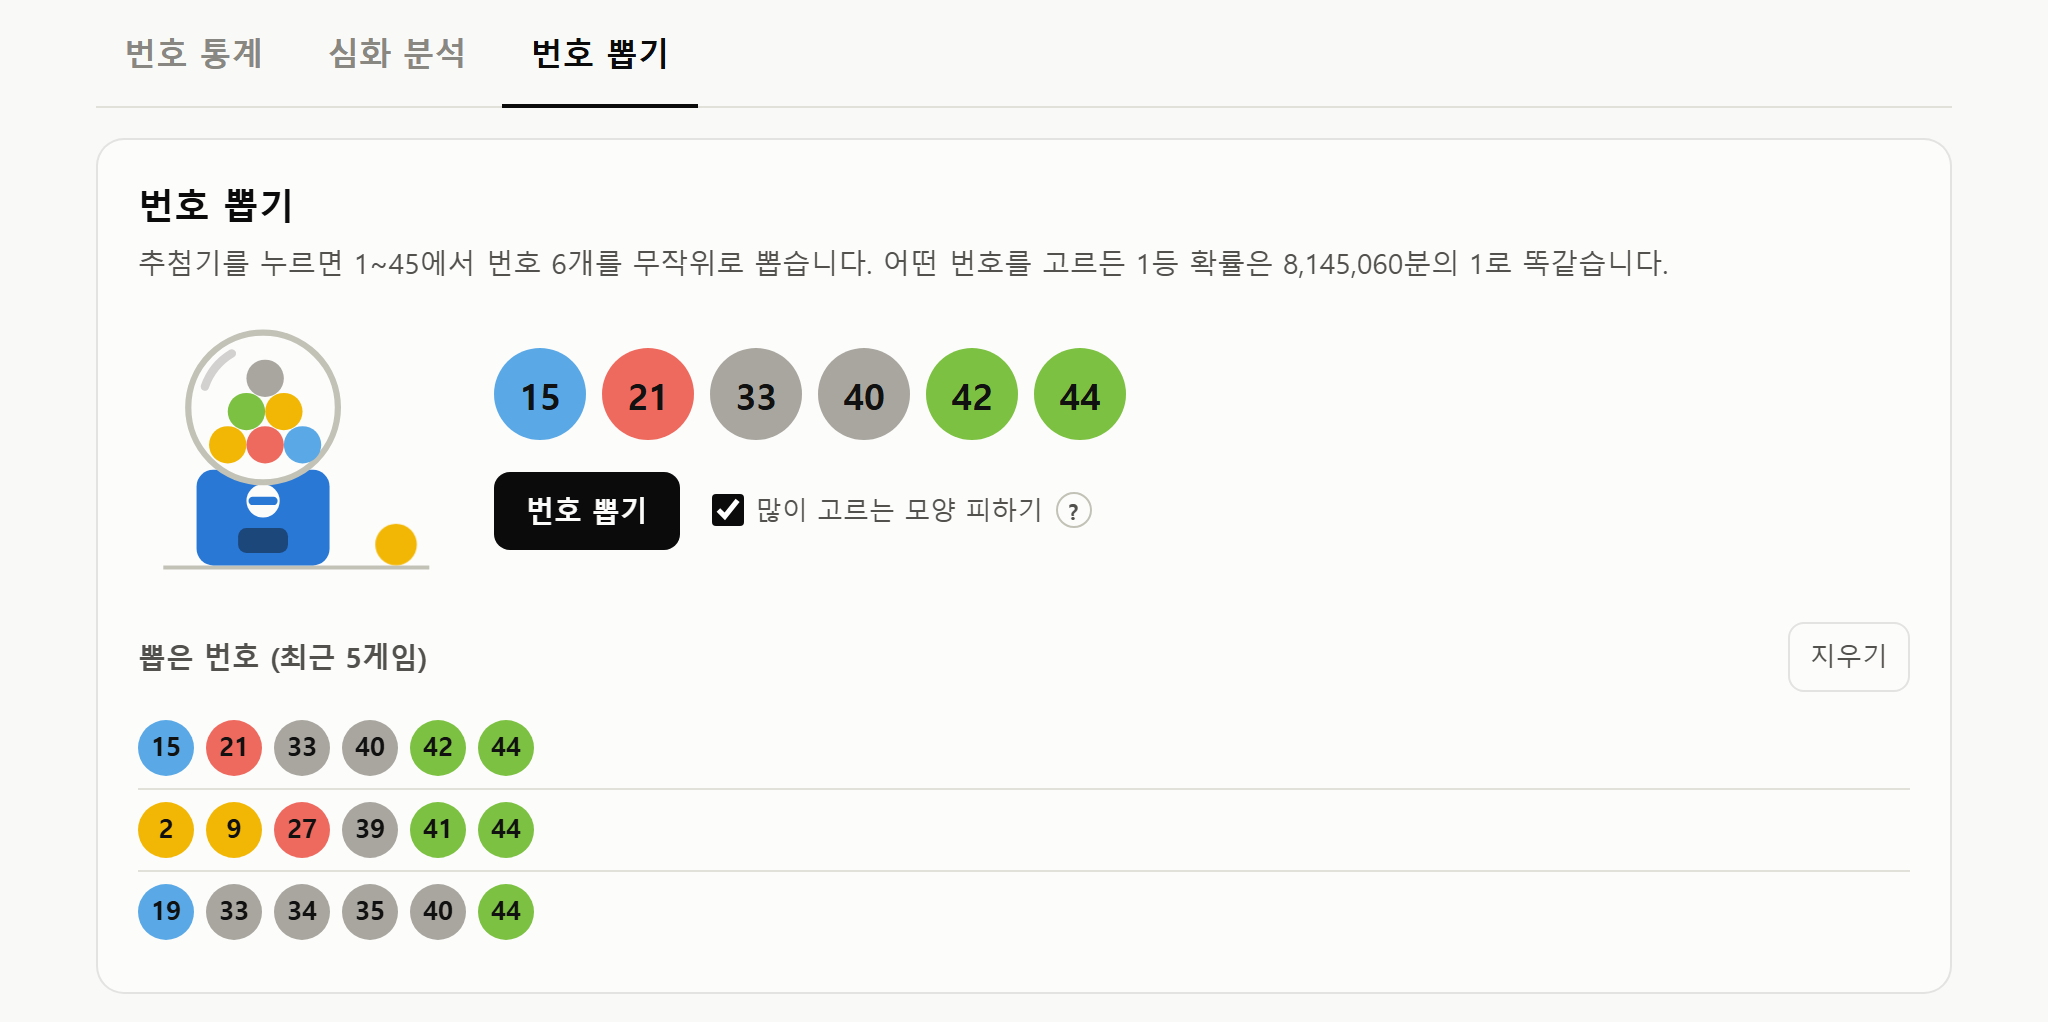
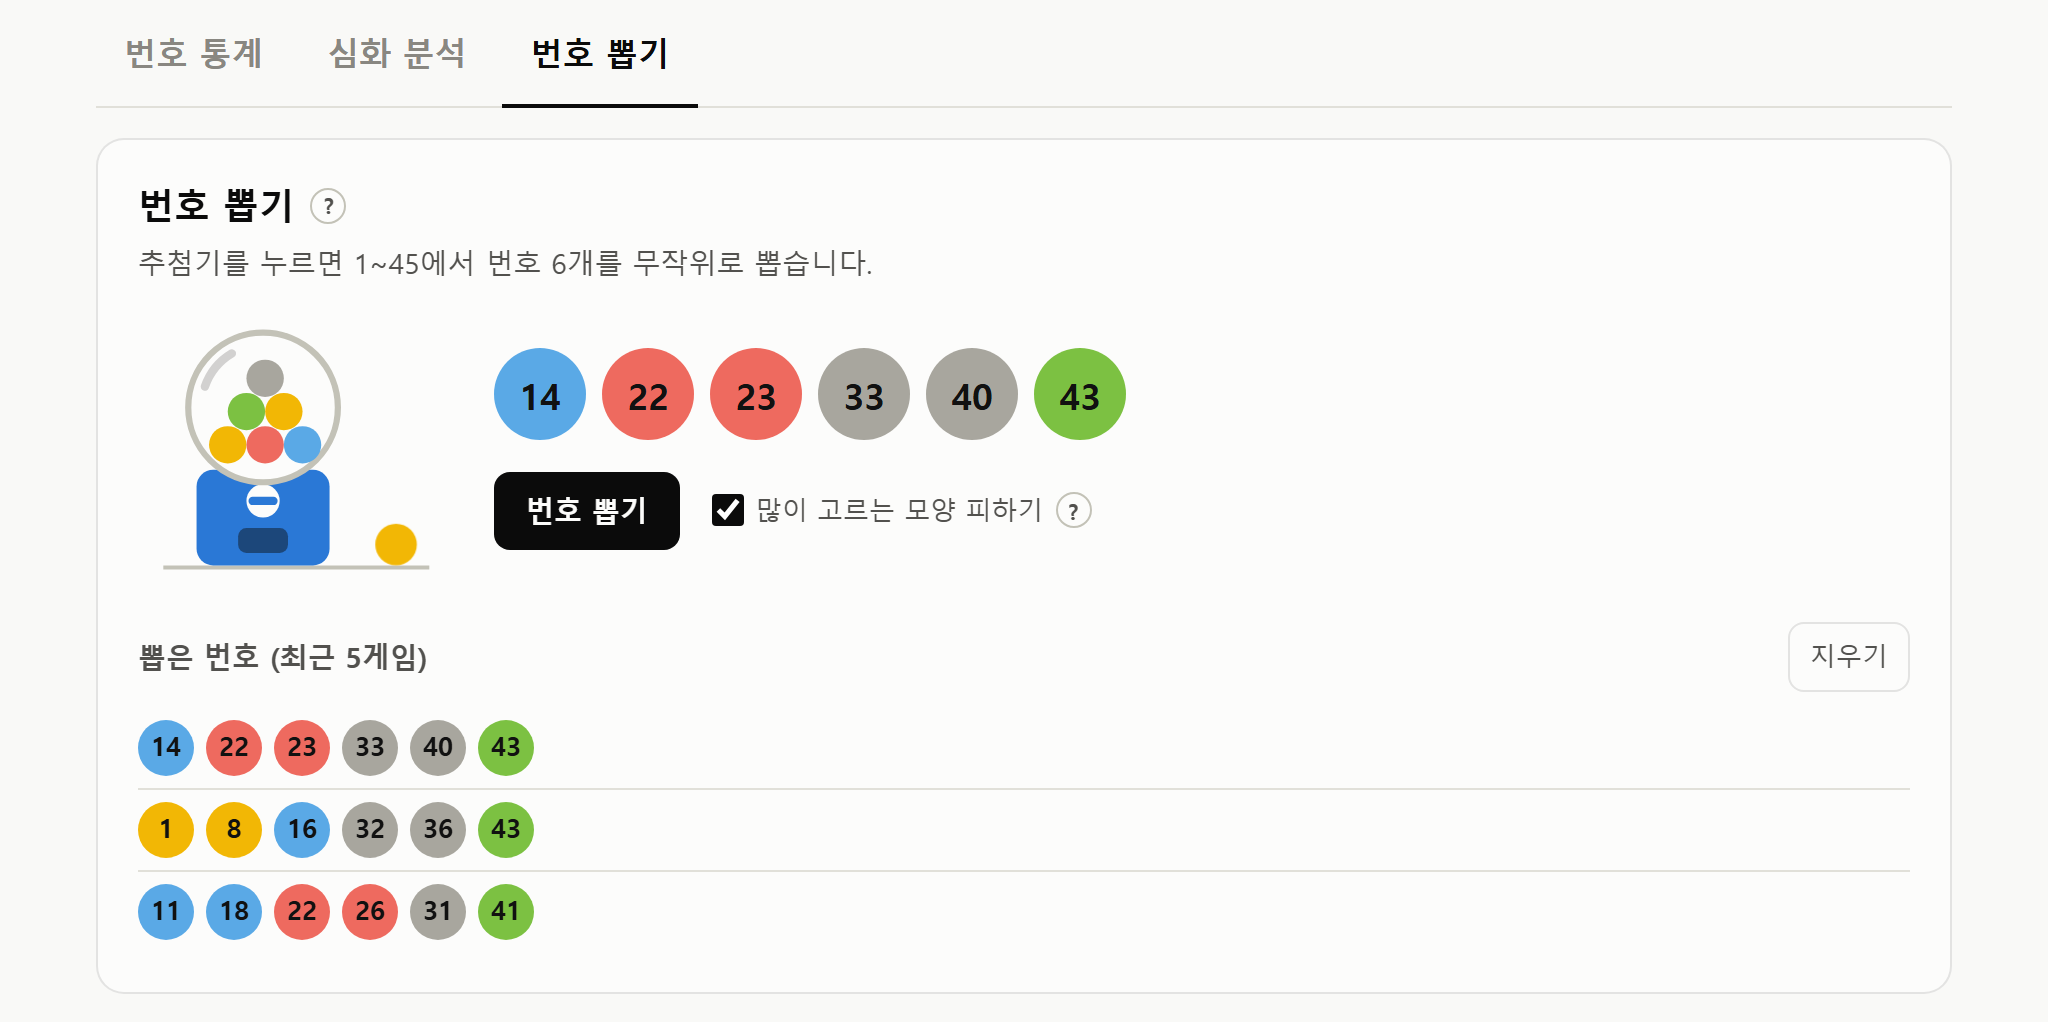
번호 뽑기의 1등 확률 안내를 제목 옆 ? 도움말로 이동
부제목에는 '추첨기를 누르면 1~45에서 번호 6개를 무작위로 뽑습니다.'만 남기고,
'1등 확률은 8,145,060분의 1로 똑같다'는 내용과 그 이유(조합 수, 분석 결과, 난수)를 ? 에 담았다.

diff --git a/docs/index.html b/docs/index.html
@@ -362,6 +362,7 @@
   .pick-history li { display: flex; flex-wrap: wrap; align-items: center; gap: 6px; padding: 6px 0; border-bottom: 1px solid var(--grid); }
   .pick-history li:last-child { border-bottom: 0; }
   .records + .sub { margin-top: 12px; }
+  .title-help { display: flex; align-items: center; gap: 8px; }
   .sr-only { position: absolute; width: 1px; height: 1px; padding: 0; margin: -1px; overflow: hidden; clip: rect(0 0 0 0); white-space: nowrap; border: 0; }
   @media (prefers-reduced-motion: reduce) { .ball.pop { animation: none; } }
 
@@ -600,8 +601,8 @@
   <!-- 탭 3: 번호 뽑기 (가챠 추첨기로 무작위 번호 6개) -->
   <div class="panel" id="panel-pick" role="tabpanel" aria-labelledby="tab-pick" hidden>
   <section class="card">
-    <h2>번호 뽑기</h2>
-    <p class="sub">추첨기를 누르면 1~45에서 번호 6개를 무작위로 뽑습니다. 어떤 번호를 고르든 1등 확률은 8,145,060분의 1로 똑같습니다.</p>
+    <h2 class="title-help">번호 뽑기 <button type="button" class="help" id="pick-title-help">?</button></h2>
+    <p class="sub">추첨기를 누르면 1~45에서 번호 6개를 무작위로 뽑습니다.</p>
     <div class="pick-stage">
       <button type="button" class="machine big" id="pick-machine" aria-label="번호 뽑기"></button>
       <div class="pick-main">
@@ -1840,6 +1841,12 @@
       `해당 회차가 많지 않아 배수에는 오차가 있고, ${t.no}회처럼 번호 모양으로는 설명되지 않는 쏠림도 있습니다. ` +
       '판매 게임 수는 87회까지 1게임 2,000원, 88회부터 1,000원으로 계산했습니다.';
 
+    bindHelp($('pick-title-help'), '번호 뽑기', [
+      ['strong', '1등 확률은 8,145,060분의 1로 똑같습니다'],
+      ['p', '1~45에서 번호 6개를 고르는 방법은 8,145,060가지이고, 그중 1등은 한 가지뿐입니다. 어떤 번호를 고르든 1등 확률은 같습니다.'],
+      ['p', '지난 당첨번호의 빈도나 패턴으로는 확률을 높일 수 없습니다. 이 페이지의 분석에서도 번호별 빈도와 모든 번호 패턴이 무작위 추첨과 같게 나왔습니다.'],
+      ['p.muted', '번호는 브라우저의 암호용 난수로 뽑아서, 45개 번호가 모두 같은 확률로 나옵니다.'],
+    ]);
     bindHelp($('pick-help'), '많이 고르는 모양 피하기', [
       ['strong', '당첨 확률은 그대로입니다'],
       ['p', '1등 당첨금은 당첨자끼리 나눠 가집니다. 사람들이 많이 고르는 번호는 당첨돼도 나눠 가질 사람이 많습니다.'],

diff --git a/site_template.html b/site_template.html
@@ -362,6 +362,7 @@
   .pick-history li { display: flex; flex-wrap: wrap; align-items: center; gap: 6px; padding: 6px 0; border-bottom: 1px solid var(--grid); }
   .pick-history li:last-child { border-bottom: 0; }
   .records + .sub { margin-top: 12px; }
+  .title-help { display: flex; align-items: center; gap: 8px; }
   .sr-only { position: absolute; width: 1px; height: 1px; padding: 0; margin: -1px; overflow: hidden; clip: rect(0 0 0 0); white-space: nowrap; border: 0; }
   @media (prefers-reduced-motion: reduce) { .ball.pop { animation: none; } }
 
@@ -600,8 +601,8 @@
   <!-- 탭 3: 번호 뽑기 (가챠 추첨기로 무작위 번호 6개) -->
   <div class="panel" id="panel-pick" role="tabpanel" aria-labelledby="tab-pick" hidden>
   <section class="card">
-    <h2>번호 뽑기</h2>
-    <p class="sub">추첨기를 누르면 1~45에서 번호 6개를 무작위로 뽑습니다. 어떤 번호를 고르든 1등 확률은 8,145,060분의 1로 똑같습니다.</p>
+    <h2 class="title-help">번호 뽑기 <button type="button" class="help" id="pick-title-help">?</button></h2>
+    <p class="sub">추첨기를 누르면 1~45에서 번호 6개를 무작위로 뽑습니다.</p>
     <div class="pick-stage">
       <button type="button" class="machine big" id="pick-machine" aria-label="번호 뽑기"></button>
       <div class="pick-main">
@@ -1840,6 +1841,12 @@
       `해당 회차가 많지 않아 배수에는 오차가 있고, ${t.no}회처럼 번호 모양으로는 설명되지 않는 쏠림도 있습니다. ` +
       '판매 게임 수는 87회까지 1게임 2,000원, 88회부터 1,000원으로 계산했습니다.';
 
+    bindHelp($('pick-title-help'), '번호 뽑기', [
+      ['strong', '1등 확률은 8,145,060분의 1로 똑같습니다'],
+      ['p', '1~45에서 번호 6개를 고르는 방법은 8,145,060가지이고, 그중 1등은 한 가지뿐입니다. 어떤 번호를 고르든 1등 확률은 같습니다.'],
+      ['p', '지난 당첨번호의 빈도나 패턴으로는 확률을 높일 수 없습니다. 이 페이지의 분석에서도 번호별 빈도와 모든 번호 패턴이 무작위 추첨과 같게 나왔습니다.'],
+      ['p.muted', '번호는 브라우저의 암호용 난수로 뽑아서, 45개 번호가 모두 같은 확률로 나옵니다.'],
+    ]);
     bindHelp($('pick-help'), '많이 고르는 모양 피하기', [
       ['strong', '당첨 확률은 그대로입니다'],
       ['p', '1등 당첨금은 당첨자끼리 나눠 가집니다. 사람들이 많이 고르는 번호는 당첨돼도 나눠 가질 사람이 많습니다.'],
